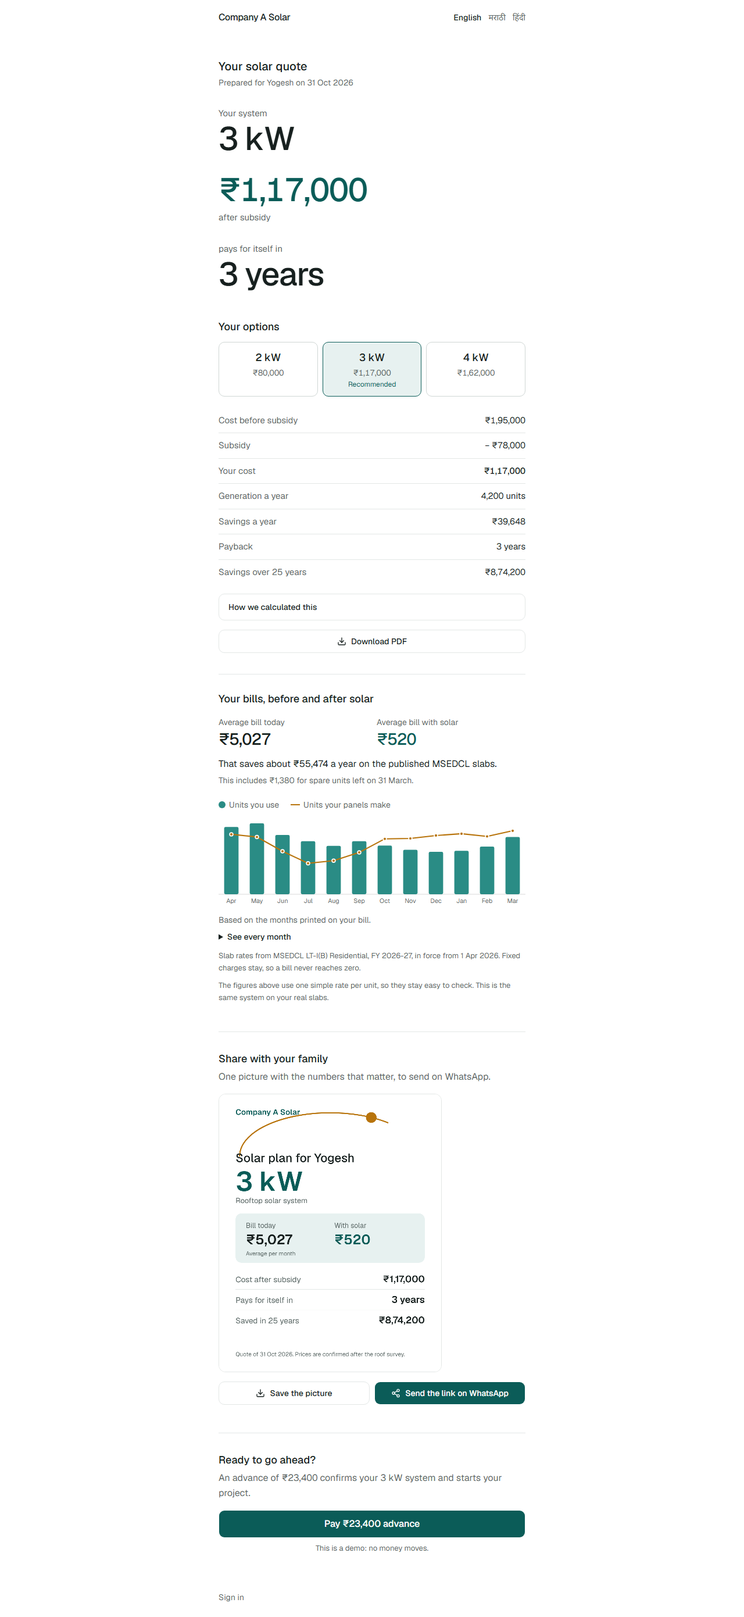
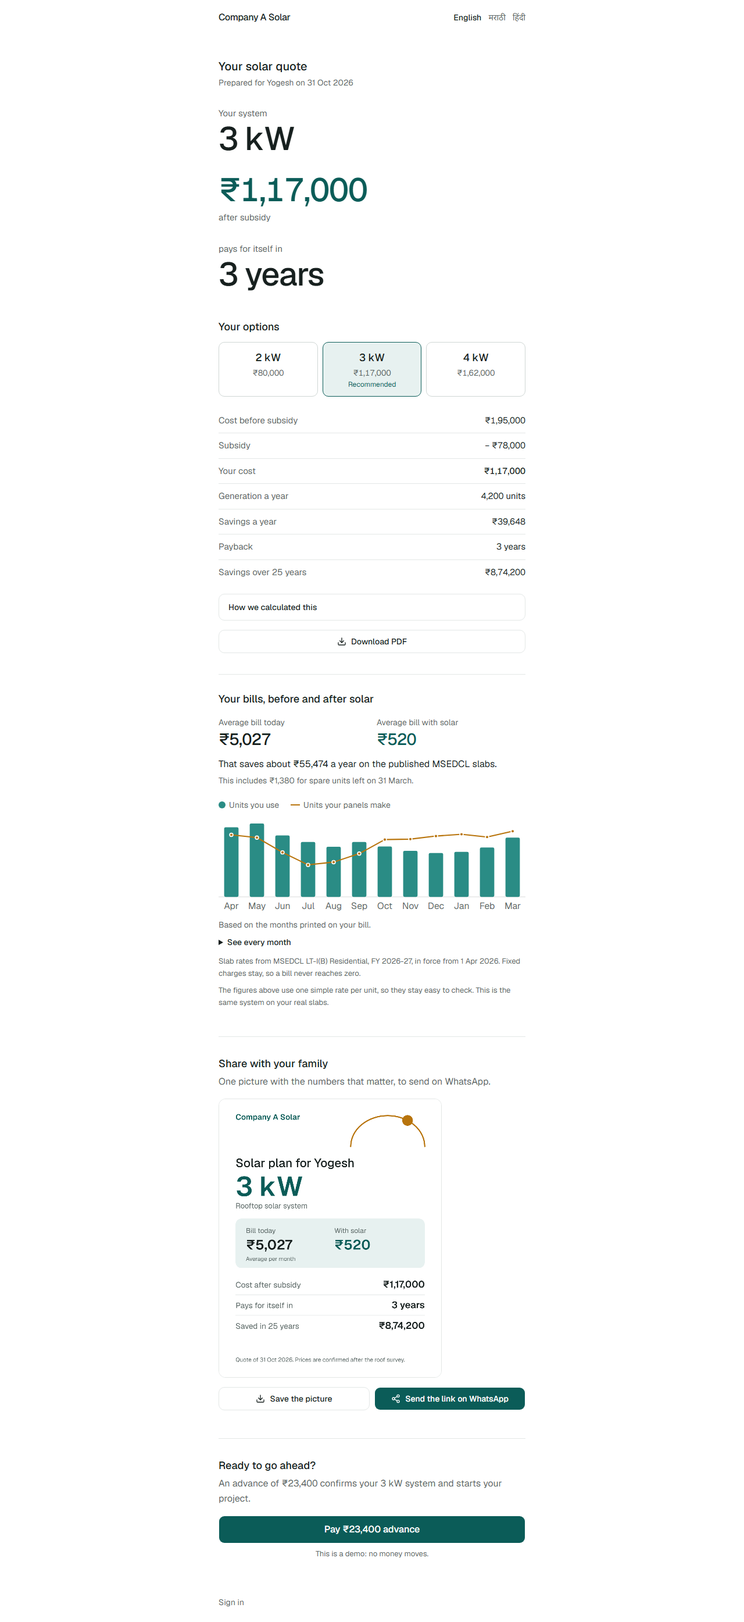
docs: real-bill results, new features, assumptions and screenshots

diff --git a/e2e/features.spec.ts b/e2e/features.spec.ts
@@ -61,7 +61,7 @@ test("when solar will not pay back in time, the homeowner is told so", async ({ 
   await page.goto("/en/l/demo-lead-ld-30915/result");
   await expect(page.getByTestId("poor-worth")).toHaveCount(0);
 
-  // With the subsidy even a small home pays back in about 6 years, so the limit is tightened to show the message.
+  // With the subsidy even a small home pays back in about 5 years, so the limit is tightened to show the message.
   await signInAsAdmin(page);
   await page.goto("/staff/admin");
   await page.getByLabel("Say solar may not pay above, years").fill("3");

diff --git a/docs/TDD.md b/docs/TDD.md
@@ -115,6 +115,21 @@ erDiagram
     date effectiveFrom
     date effectiveTo
   }
+  TariffRule {
+    json slabs
+    float fixedSinglePhase
+    float wheelingPerUnit
+    float dutyPercent
+    date effectiveFrom
+    date effectiveTo
+  }
+  SavingsCheck {
+    string month
+    int billAmount
+    int promisedSaving
+    int actualSaving
+    string verdict
+  }
   Setting {
     string key
     json value
@@ -126,6 +141,7 @@ Decisions worth defending:
 - **`BillReading` keeps `ai` and `confirmed` side by side**, plus `editedFields`. This is the audit trail for measuring AI accuracy later.
 - **`Quote.snapshot` copies the rules used.** There is no foreign key to a rule on purpose: a later edit cannot reach an old quote. An E2E test proves it.
 - **Money is whole rupees, dates in rule tables are date-only**, and "same day" means the Indian calendar day.
+- **A quote freezes its year of bills too.** `Quote.snapshot.billView` holds the tariff and the month-by-month projection for each option, so the promise tracker compares a later bill with what was actually promised, even after tariffs change.
 - **`RateLimit` is a table**, because in-memory counters do not survive across serverless instances.
 
 ## 4. Main flows
@@ -189,7 +205,14 @@ The AI does one job: it reads a bill. It never sets a price, a subsidy, generati
 
 **Reading.** `GeminiBillReader` sends the image with a strict response schema. The model returns a value and a confidence per field, plus `isElectricityBill` and an image-quality flag. The prompt forbids estimating, tells the model to return null for anything it cannot see, and treats text in the image as data, which guards against prompt injection from an uploaded image. Zod then validates the reply again in `parseBillResponse`.
 
-**Tested on the real API.** All six samples went through `gemini-3.5-flash`. The three clear bills gave every value correctly in about 6 seconds. The deliberately stained bill varies between runs, as a model will: it read the rest and either returned null for the hidden fields or gave a value with low confidence. Both land in front of a person as a highlighted field, which is why the design relies on confirmation rather than on the model being right. The blurry photo and the shop receipt were both rejected. This is synthetic data only: **accuracy on real MSEDCL phone photos is unmeasured** and is the first thing to check in a pilot.
+**Measured on real bills.** `pnpm eval:bills` runs the reader over documents with known answers and writes [BILL_ACCURACY.md](BILL_ACCURACY.md). On 7 images of 5 real MSEDCL bills, including a Marathi bill, net-meter bills and a stamped, hand-marked scan, the light model read **79 of 83 fields (95%)** and 84 of 85 months of history. Fields hidden by masks must come back blank: it invented one value out of 83, taking a DTC code for a blacked-out consumer number. On 14 lookalike images it read 196 of 196. The main model read the real Marathi bill 13 of 13 before its daily limit ran out, so it has not been measured across the full set. This is a small test: it proves the reader copes with real layouts, not its accuracy on thousands of phone photos. The stored AI-versus-confirmed values answer that in a pilot.
+
+**Finding the bills.** MSEDCL publishes real bills as format guides, and a college published one for accreditation. No homeowner's forum post was used. MSEDCL's masks cover the page image only: the real customer's name and address are still in those PDFs' text layer. So the test set is flattened pixels, redacted further by hand, and the PDFs are never committed or sent to the model.
+
+**Prompt lessons from real bills.** Real bills print three totals (prompt-payment, due, late), carry arrears inside the headline amount, and print meter readings beside the units. The first run confused these, so the prompt now names each, and the arrears are taken out before any rate is worked out (A42). That raised the real-bill score from 93% to 95%.
+
+**Poor photos.** People photograph bills on a table, in dim rooms, one side only. Three things handle this. The browser checks the photo for blur, darkness and size before it is sent, and only advises, because Gemini still reads surprisingly soft photos. A second photo of the back can be added, and the two are joined into one image, as arrears and charges are usually on the back. The model is told to expect tilt, folds and stamps, and simulated tilted, dim and soft shots score the same as clean ones in the lookalike set.
+
 
 | Failure | What the app does |
 |---|---|
@@ -197,7 +220,8 @@ The AI does one job: it reads a bill. It never sets a price, a subsidy, generati
 | Value not found | Left blank, never guessed |
 | Blurry, cropped, dark or not a bill | A specific message with photo tips and a re-upload |
 | Model returns bad JSON or wrong shape | Treated as a failed read, then manual entry |
-| API down, over quota, or no key | The lead is kept, with a clear message and manual entry |
+| Over the daily limit on the main model | The reader moves to the lighter model (A30) |
+| API down, or no key | The lead is kept, with a clear message and manual entry |
 | Model wrong but confident | A person sees every value before it is used, and corrections are stored |
 | Low score | A short call replaces the visit. Only a person can close a lead |
 
@@ -249,6 +273,37 @@ The 4 kW row shows why the surplus rate matters. Valuing every unit at full tari
 
 The other two sample rows also come out as specified: LD-30902 (tenant) gets Low and no size, and LD-30915 (₹650, 85 units) gets 1 kW and Low. `score.test.ts` asserts all three.
 
+### Real bills, not one rate
+
+The quote keeps the brief's one-rate formula so its sample rows still reproduce (A38). Beside it, the app shows the homeowner's real bills, because one rate hides what matters. Solar removes the dearest slabs first, and the fixed charge never goes.
+
+**The tariff engine is proven on real bills.** `calculateBill` uses the dated `TariffRule` table, taken from MERC Case 75 of 2025, and reproduces two published MSEDCL bills line by line, to the paisa:
+
+| Bill | Units | Fixed | Energy | Wheeling | FAC | Other | Duty | Total |
+|---|---|---|---|---|---|---|---|---|
+| October 2026 | 146 | 130.00 | 892.80 | 233.60 | 48.00 | -34.00 | 203.26 | **1,473.66** |
+| September 2022 (1.03 months) | 202 | 105.00 | 1,072.74 | 272.70 | 210.50 | 0.00 | 265.75 | **1,926.69** |
+
+The 2022 bill shows a detail no guide mentions: slabs widen with the billing period, so 1.03 months puts the first slab at 103 units. The October bill also shows a daytime rebate of ₹0.85 a unit, which the projection leaves out as it depends on a smart meter (A40).
+
+**Seasons.** Bills print a year of history, in a table or a bar chart, and the reader now returns it with month labels. Sizing uses the year. One peak bill would mislead: a May bill of 610 units, on a home averaging 365, would size the system on a month. Both the homeowner and sales are told when this happens, and sales sees the size each basis gives. Months the bill omits are filled from a seasonal pattern and drawn lighter (A36).
+
+**Month by month.** `projectBills` walks April to March: generation from Nagpur's PVGIS monthly shape, netted against use, with spare units banked through the monsoon and the balance paid on 31 March (A35, A37). For a 340-unit home with 3 kW the average bill falls from ₹4,619 to ₹288, and the yearly saving is ₹53,021 against ₹38,753 on the quote's one-rate formula.
+
+**An honest result that disproved an idea.** I expected this to tell small users solar is not worth it. It does not: with the subsidy, an 85-unit home pays back in about 5 years, because a 1 kW system is cheap. The warning exists (A39) but rarely shows, and I would rather report that than force it.
+
+### Catching problems early
+
+**Blockers (A41).** When a bill is confirmed, `findBlockers` looks for what stops a subsidy or net meter weeks later: a connection in someone else's name, overdue arrears, a sanctioned load below the wanted size, a non-home tariff, a tenant, existing solar export, a faulty meter. Name matching allows for titles, word order, initials and one-letter spelling changes, and says nothing rather than guess at a Devanagari name. Each item says what to do. None changes the score.
+
+**Promise tracker (A43).** After the net meter is in, a homeowner adds a bill to the status page. The same reader reads import, export and bank. The bill is compared with the promise for that same month, as a monsoon bill is meant to be higher. A bill far behind messages the customer and appears for staff before the customer has to complain. The impact panel gains a fourth number: savings delivered against the quote.
+
+**Real completion dates (A44).** `forecastProject` learns how long each stage really took from finished projects, and gives a likely date, a late date and the slip against the promised date. A project can be flagged weeks before any stage limit is broken, with the reason, such as net metering usually taking 40 days, not 21.
+
+**Roof map (A45).** Homeowners rarely know their roof area. They can tap its corners on a satellite photo. The browser only draws: the server measures the outline again and never trusts a sent area. The surveyor sees the same outline. An outline that crosses itself or is larger than a house is refused.
+
+**Family card.** The decision is often made by relatives who never saw the sales chat. One image carries the size, the bill before and after, the cost and the payback. It is drawn on a canvas in the browser, as browsers shape Marathi correctly and server image libraries often do not. It carries a first name only.
+
 ## 7. UI and design decisions
 
 The direction is calm and minimal: white space, one deep teal accent, neutral greys, and red kept for "stuck" and errors. Latin text is Geist, with Noto Sans Devanagari for Marathi and Hindi.
@@ -275,6 +330,10 @@ Every screen was captured at 390 px and 1280 px, then reviewed and corrected. Th
 
 ![Admin rule tables with the verify note](screenshots/16-admin-1280.png){width=640}
 
+![A peak month flagged, with a year of bills in Marathi](screenshots/05c-result-marathi-bill-390.png){width=180}
+![Blockers found on a bill](screenshots/05d-result-blockers-390.png){width=180}
+![Roof measured on satellite imagery](screenshots/08-roof-map-390.png){width=180}
+
 ## 8. Security and DPDP handling
 
 **Access.** Auth.js with hashed passwords and three roles. The proxy gives a fast redirect, and every server action, route and page checks the role again on the server. Homeowners only ever read leads linked to their own account. Public links carry 192 random bits. Signing in a homeowner never links a lead by phone number alone, because the number is unverified.
@@ -300,6 +359,8 @@ Every screen was captured at 390 px and 1280 px, then reviewed and corrected. Th
 - Bills go to a third-party AI on Google's free tier, and free-tier data may be used to improve Google's products. A paid tier with a data-processing agreement is needed before real customer bills are sent.
 - The demo database sits in `us-east-1` (A22). Production should move to an Indian region.
 - A bill's consumer number and any name on it reach Gemini, so the consent notice must name this processor at launch.
+- A roof outline is the customer's exact home location, and map tiles and search reveal the area to Esri and OpenStreetMap. It is optional, named in the consent notice (v2), staff-only, and removed on erasure.
+- MSEDCL's published sample PDFs leak a real customer's name under their masks. Sunpath keeps only flattened, redacted images. MSEDCL should be told.
 - Seeded demo links use readable tokens (A29), and the demo logins are public.
 
 ## 9. Testing strategy
@@ -308,11 +369,11 @@ The riskiest logic gets the most tests.
 
 | Layer | Tool | Count | Covers |
 |---|---|---|---|
-| Domain and reader | Vitest | 117 | Subsidy slabs, cap and date selection, overlap rejection, sizing, payback, all three sample rows, bill parser, stuck detector, translation key and placeholder parity |
-| End to end | Playwright | 18 | Lead to result on a 390 px phone, re-upload, quote and PDF, stage change to outbox to status page, document gating, old quotes unchanged after rule edits, role and PII checks, erasure |
+| Domain and reader | Vitest | 218 | Everything before, plus real-bill tariff reproduction, usage years, bill projection, blockers and name matching, the savings promise, forecasts, roof geometry, photo check and accuracy scoring |
+| End to end | Playwright | 30 | Everything before, plus a Marathi bill to a year of bills, a peak May bill, blockers for homeowner and staff, the photo check and two-sided upload, roof map to surveyor, the family card, a bill after solar through to staff, forecasts, and tariff overlap |
 | CI | GitHub Actions | On every push | Lint, typecheck, unit tests, migrations, seed, build and E2E against Postgres with the mock reader |
 
-Real Gemini is exercised by `scripts/try-gemini.ts` and was also checked through production, not in CI, because CI must not depend on a live API or use a key. Marathi and Hindi PDFs were rendered and inspected by eye, since a test cannot judge glyph shaping.
+Bill reading is measured by `pnpm eval:bills`, outside CI, as it needs a key and uses daily quota. Real Gemini is also exercised by `scripts/try-gemini.ts` and was also checked through production, not in CI, because CI must not depend on a live API or use a key. Marathi and Hindi PDFs were rendered and inspected by eye, since a test cannot judge glyph shaping.
 
 ## 10. All assumptions
 
@@ -335,7 +396,7 @@ Real Gemini is exercised by `scripts/try-gemini.ts` and was also checked through
 
 ## 12. What I would do next
 
-1. **Pilot on real bills** to measure read accuracy using the stored AI-vs-confirmed values, and tune the confidence threshold.
+1. **Pilot on real phone photos** to measure read accuracy from the stored AI-vs-confirmed values, tune the confidence threshold, and replace the assumed seasonal pattern with confirmed history.
 2. **Real WhatsApp Business API**, draining the existing outbox, with delivery status and customer replies.
 3. **DISCOM integrations** for net-metering status where MSEDCL allows it.
 4. **Accuracy dashboard**: edits per field, by bill layout.

diff --git a/docs/ASSUMPTIONS.md b/docs/ASSUMPTIONS.md
@@ -27,14 +27,27 @@ Anything not stated in the client brief is listed here. Code comments and the TD
 | A21 | Retention: lead data and bills 24 months after last activity for unconverted leads; project records 8 years for tax; rejected bill photos 90 days. | Placeholder for legal review. See the TDD. | TDD |
 | A22 | The demo runs in Vercel `iad1` next to Neon `us-east-1` because that is what the free provisioning gave. Production should move to `ap-south-1`/`bom1`. | Latency and data-location concerns for a real launch. | `vercel.json` |
 | A23 | Survey shading reduces usable roof: partial 20%, heavy 50%. It does not change generation. | The brief fixes generation to one formula. Shading therefore affects how much roof is usable. | Quote builder |
-| A24 | Monthly units for sizing are the average of the bill's history when present, else the latest month. | The sample column is "Avg Units/Month", and one month can be seasonal. | `domain/bill.ts` |
+| A24 | Monthly units for sizing are the average of the months on the bill. With one month and no history, that month is scaled by the season (A36). | The sample column is "Avg Units/Month", and one month can mislead. | `domain/usage.ts` |
 | A25 | With no bill read, units are estimated as monthly bill ÷ ₹9. | The lead must still be scored when AI is down. It earns no confidence points. | `server/leads.ts` |
 | A26 | "Sunpath" is the working product name, and the customer-facing brand shows "Company A Solar". | The brief names no product. | UI |
 | A27 | Every outbound update is a mock WhatsApp row in `MessageOutbox`. | The brief says to mock messages. | `server/outbox.ts` |
 | A28 | "Same day" is measured on the Indian calendar day. | A UTC day boundary would misreport evening surveys. | `domain/format.ts` |
 | A29 | Seeded records use fixed, readable link tokens (for example `demo-quote-ld-31007`) so the README can link straight to them. Real records always get 192 random bits. | A reviewer needs one-click links. Only fictional demo data has guessable links. | `prisma/seed.ts` |
-| A30 | The default model is `gemini-3.5-flash`, overridable with `GEMINI_MODEL`. | The brief's `gemini-2.5-flash` returns 404 for new keys. `gemini-3.5-flash` read all six samples correctly in about 5 seconds; newer models timed out on the free tier. | `server/bill-reader` |
+| A30 | The default model is `gemini-3.5-flash`, then `gemini-3.5-flash-lite` when the first is over its limit. Both can be changed by env var. | The brief's `gemini-2.5-flash` returns 404 for new keys. The free tier allowed only 20 requests a day on the first model, which a live demo can use up. | `server/bill-reader` |
 | A31 | If Gemini fails on a known sample bill, the mock reader answers and the reading records `mock`. Unknown bills go to manual entry. | Keeps the demo working through a free-tier outage without inventing values for a real bill. | `server/bill-reader` |
 | A32 | A quote can only be built once a survey is recorded. | The brief says the quote follows the survey. | Lead detail |
 | A33 | A deletion request is handled by an admin using "Erase customer data", which removes the lead, files, quotes, project and messages. | The consent notice promises deletion, so there has to be a way to do it. | `server/leads.ts` |
 | A34 | Unknown quote and status links show the not-found page with `noindex`, over a 200 status, because the loading skeleton has already streamed. | Keeping skeletons on navigation mattered more than the status code. No data is exposed either way. | `app/[locale]/loading.tsx` |
+| A35 | Monthly solar output follows PVGIS 5.3 for a south-facing roof in Nagpur (ERA5, 2005 to 2023), used as shares of the year. The brief's 1,400 units per kW still sets the yearly total. | The brief gives a yearly figure, but monsoon months make about half of March. PVGIS's own total for Nagpur is about 1,497. | `domain/settings.ts` |
+| A36 | With no history, a month is scaled by an assumed use pattern: May 1.33 times the average, December 0.8. A bill 20% or more from the average is flagged. | Summer cooling drives the peak. The shape is an estimate, checked only against two real homes. Replace it with confirmed bills once there are enough. | `domain/usage.ts` |
+| A37 | The bill view nets export against import each month at full slab rates, banks spare units, and pays the balance on 31 March at the ₹3 surplus rate. | This follows how net-metered MSEDCL bills show import, export and bank. Self-use within the month is treated the same as export. | `domain/projection.ts` |
+| A38 | Quotes keep the brief's one-rate formula, so the sample rows still reproduce, and the slab view sits beside it as a second figure. | The brief fixes the formula. Slab savings are usually higher, so the quote's figure is the cautious one. | `components/quote` |
+| A39 | "Solar may not be worth it" shows when payback passes 12 years. | Editable. With today's subsidy even an 85-unit home pays back in about 5 years, so this rarely shows. The real data disproved the idea that small users are poor buyers. | `domain/projection.ts` |
+| A40 | Tariffs are MSEDCL LT-I(B) from MERC Case 75 of 2025. FAC is copied from the October 2026 bill and changes monthly. The ₹10 municipal adder and the daytime rebate are left out of projections. | Both exclusions affect before and after alike, or depend on a smart meter. | `prisma/seed-rules.ts` |
+| A41 | Blockers: a name that does not match the applicant, arrears over ₹500, a load below the wanted size, a non-home tariff, a tenant, existing solar export, a meter not marked normal. | Drawn from common scheme and net-meter requirements. Confirm each with MSEDCL and the scheme portal before launch. They inform people and never change the score. | `domain/blockers.ts` |
+| A42 | A bill's total is reduced by its arrears before working out a rate per unit or scoring the bill size. | Old dues say nothing about this month's electricity. A real bill with ₹2,986 of arrears otherwise looked like ₹20 a unit. | `domain/bill.ts` |
+| A43 | A bill after solar is on track at 90% of the promised saving, needs watching from 75%, and is behind below that. | Editable. Bills vary with weather and use, so a small shortfall is not a fault. Compared with the same calendar month in the frozen quote. | `domain/promise.ts` |
+| A44 | Forecasts use the median and 80th percentile of finished projects, per stage, once a stage has 3 of them. Below that they use the stage limit. | Few samples prove little. The demo's history is seed data, so its dates show the method, not a real result. | `domain/forecast.ts` |
+| A45 | The roof map uses Esri World Imagery and OpenStreetMap search with no key. | Free for a demo. Check both providers' terms before commercial use. The outline is plan area, so a sloped roof reads smaller, and a surveyor still measures. | `components/public/roof-map.tsx` |
+| A46 | The photo check warns under 450 px on the short side, under brightness 70, or under sharpness 20. It never blocks. | Set from test images: Gemini still read bills at sharpness 35 and brightness 114, so warnings must not be strict. | `lib/photo-check.ts` |
+| A47 | Lookalike bills copy the layout of published bills with fictional details, tariff-correct numbers, a SAMPLE stamp, and no logo, QR code or barcode. | They give many cases with exact answers, without using anyone's data. They are reported apart from real bills. | `scripts/lookalike-bills.ts` |

diff --git a/README.md b/README.md
@@ -22,6 +22,12 @@ From a rooftop solar enquiry to the subsidy landing in the bank. Built for a Vid
 4. **See a customer's project.** Open [a status page](https://sunpath-virid.vercel.app/mr/s/demo-status-pr-1002).
 5. **Change the rules.** Sign in as Admin and open **Rules**. Try adding a subsidy rule with overlapping dates.
 
+6. **Try what they didn't ask for.**
+   - On the upload step, pick **Marathi home bill**: it reads the real MSEDCL layout, then shows a year of bills before and after solar.
+   - Pick **May bill**: it spots a peak month and sizes on the year. Pick **Bill in another name**: it catches the name, the arrears and the low load before anyone visits.
+   - Tap **Measure your roof on a map** in the form. Open [a quote](https://sunpath-virid.vercel.app/mr/q/demo-quote-ld-31007) and save the family card.
+   - On [a finished project](https://sunpath-virid.vercel.app/en/s/demo-status-pr-1008), add **Bill after solar**. As Sales, **Projects** shows who is likely to slip and whose savings are behind.
+
 The live data is shared, so someone else may have already quoted Prashant.
 
 ## What is real and what is mocked
@@ -31,7 +37,9 @@ The live data is shared, so someone else may have already quoted Prashant.
 | Gemini bill reading, including poor-photo and outage handling | WhatsApp and SMS: rows in an outbox, shown in the app |
 | Subsidy, sizing, payback and scoring from dated rule tables | Payments: the advance is recorded with no money moving |
 | Auth with server-side role checks, private file storage | Prices are placeholders (A05 in the assumptions) |
-| PDF quotes in English, Marathi and Hindi | Sample bills are fictional. Real-bill accuracy is unmeasured |
+| PDF quotes in English, Marathi and Hindi | Sample bills are fictional, stamped SAMPLE and never pass as real bills |
+| Bill reading measured on 5 real MSEDCL bills: [95% of fields](docs/BILL_ACCURACY.md) | That test is small. Accuracy on thousands of phone photos needs a pilot |
+| Tariff engine that matches real bills to the paisa | Completion forecasts and delivered savings run on seed data |
 
 ## Where to look
 
@@ -40,6 +48,7 @@ The live data is shared, so someone else may have already quoted Prashant.
 | The hard part: pure, tested rules and maths | [src/domain](src/domain) |
 | AI reader and its failure handling | [src/server/bill-reader](src/server/bill-reader) |
 | Design and reasoning | [docs/TDD.md](docs/TDD.md) |
+| Read accuracy on real bills | [docs/BILL_ACCURACY.md](docs/BILL_ACCURACY.md) |
 | Every assumption, with IDs | [docs/ASSUMPTIONS.md](docs/ASSUMPTIONS.md) |
 | Run it yourself | [deployment.md](deployment.md) |
 | Sample bills, served at `/samples` | [public/samples](public/samples) |

diff --git a/deployment.md b/deployment.md
@@ -63,10 +63,12 @@ export DATABASE_URL=postgresql://sunpath:sunpath@localhost:5433/sunpath_test
 export DIRECT_URL=$DATABASE_URL
 pnpm prisma migrate deploy && pnpm db:seed && pnpm build
 pnpm exec playwright install chromium
-pnpm test:e2e --project=desktop --project=mobile --project=security
+pnpm test:e2e --project=desktop --project=mobile --project=security --project=features
 ```
 
 `pnpm exec tsx scripts/try-gemini.ts` runs the real Gemini reader over every sample bill, if a key is set.
+
+`pnpm eval:bills` measures the reader on the real and lookalike bills in `eval/` and rewrites `docs/BILL_ACCURACY.md`. It makes 21 requests, more than the main model's free daily limit, so run it with `GEMINI_MODEL=gemini-3.5-flash-lite` to keep the main model's quota for the demo.
 
 ## How it is deployed
 
@@ -108,6 +110,7 @@ Re-seeding replaces the demo records only, and leaves anything real untouched.
 | `BLOB_READ_WRITE_TOKEN` | Production | Private Blob store. Unset means disk storage |
 | `GEMINI_API_KEY` | For real reading | Unset means mock reader and manual entry |
 | `GEMINI_MODEL` | Optional | Default `gemini-3.5-flash` |
+| `GEMINI_FALLBACK_MODEL` | Optional | Used when the main model is over its limit. Default `gemini-3.5-flash-lite` |
 | `BILL_READER` | Optional | `auto` (default), `gemini` or `mock` |
 | `APP_URL` | Outside Vercel | Base URL for links in messages |
 | `SEED_ENV_FILE` | Remote seeding | Env file to seed from |
